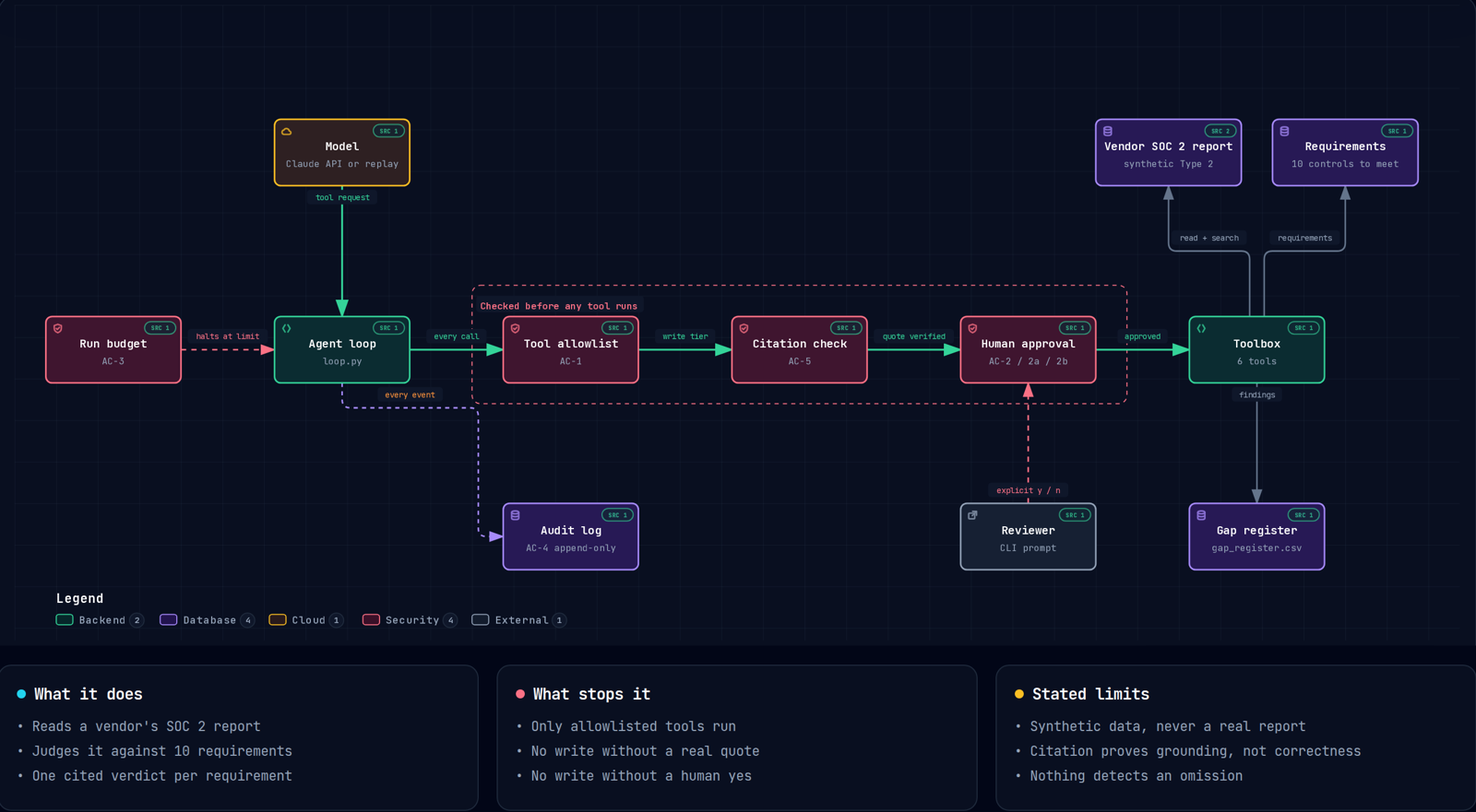
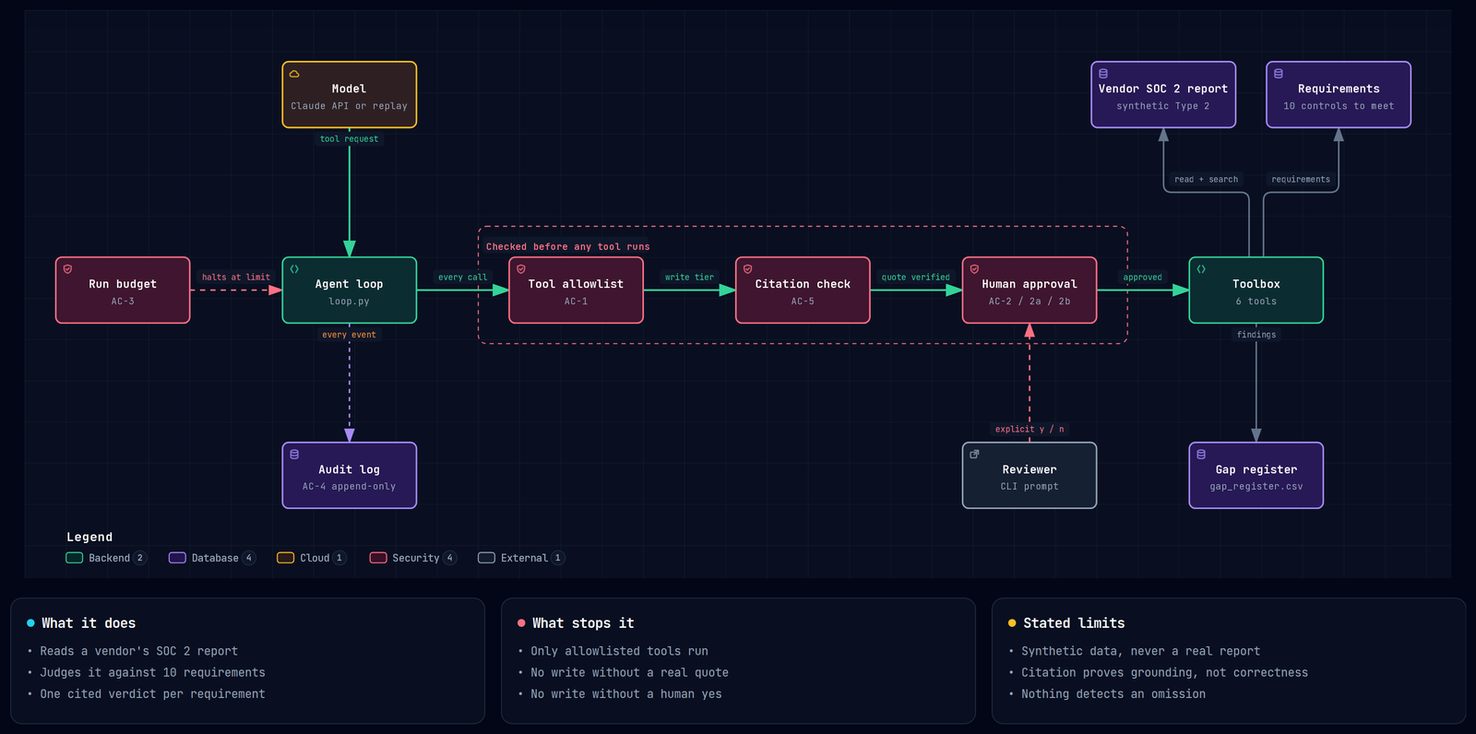
Architecture diagram: cleaner layout and spacing

diff --git a/docs/architecture.html b/docs/architecture.html
@@ -3,7 +3,6 @@
 <head>
   <meta charset="UTF-8">
   <meta name="viewport" content="width=device-width, initial-scale=1.0">
-  <meta name="generator" content="archify 2.17.0-dev.1">
   <title>SOC 2 Control-Gap Agent Diagram</title>
   <script>
     // Resolve the theme before first paint so light-preference users don't
@@ -4973,7 +4972,7 @@ OTHER DEALINGS IN THE FONT SOFTWARE.
       svg [data-node-id], svg [data-edge-from], svg [data-detail], svg [data-detail-anchor], svg [data-legend-hit], svg { transition: none !important; }
     }
   </style>
-</head>
+<style id="site-overrides">.guided-view-chapter-delta,.source-evidence-beacon{display:none!important}</style></head>
 <body>
   <!-- Toolbar: theme, live visual style, trace motion, presentation stage, and export.
        Motion appears only for trace-enabled artifacts and has no shortcut;
@@ -5130,9 +5129,9 @@ OTHER DEALINGS IN THE FONT SOFTWARE.
     <!-- Main Diagram -->
     <div class="diagram-container" data-detail-level="read"
          data-preset-badge-editorial-plate="ARCHIFY / PLATE 04">
-      <svg viewBox="0 0 1390 612" role="img" lang="en" aria-labelledby="archify-diagram-title archify-diagram-description" data-preset="classic" data-quality-profile="showcase">
+      <svg viewBox="0 0 1385 552" role="img" lang="en" aria-labelledby="archify-diagram-title archify-diagram-description" data-preset="classic" data-quality-profile="showcase">
         <title id="archify-diagram-title">SOC 2 Control-Gap Agent</title>
-        <desc id="archify-diagram-description">An architecture diagram generated by Archify.</desc>
+        <desc id="archify-diagram-description">Architecture of the SOC 2 control-gap agent: every tool request passes the allowlist, citation check and human approval before anything is written.</desc>
         <!-- Definitions -->
         <defs>
           <marker id="arrowhead" markerWidth="10" markerHeight="7" refX="9" refY="3.5" orient="auto">
@@ -5156,245 +5155,245 @@ OTHER DEALINGS IN THE FONT SOFTWARE.
         <rect width="100%" height="100%" fill="url(#grid)" />
 
         <!-- Boundaries (behind everything) -->
-        <rect data-graph-role="structural-frame" data-composition-frame-kind="security-group" data-composition-frame-id="0" data-composition-frame-label="Checked before any tool runs" x="440" y="270" width="630" height="114" rx="8" class="c-security-group" stroke-width="1"/>
+        <rect data-graph-role="structural-frame" data-composition-frame-kind="security-group" data-composition-frame-id="0" data-composition-frame-label="Checked before any tool runs" x="440" y="210" width="630" height="114" rx="8" class="c-security-group" stroke-width="1"/>
 
         <!-- Connection paths (before components for correct z-order) -->
-        <path data-edge-from="provider" data-edge-to="loop" data-edge-label="tool request" data-edge-key="0" data-edge-id="model-asks" data-composition-points="315,174;315,300" d="M 315 174 L 315 300" class="a-emphasis" stroke-width="1.8" marker-end="url(#arrowhead-emphasis)"/>
-        <path data-edge-from="loop" data-edge-to="allowlist" data-edge-label="every call" data-edge-key="1" data-edge-id="loop-to-allowlist" data-composition-points="380,332;470,332" d="M 380 332 L 470 332" class="a-emphasis" stroke-width="1.8" marker-end="url(#arrowhead-emphasis)"/>
-        <path data-edge-from="allowlist" data-edge-to="citation" data-edge-label="write tier" data-edge-key="2" data-edge-id="write-to-citation" data-composition-points="600,332;690,332" d="M 600 332 L 690 332" class="a-emphasis" stroke-width="1.8" marker-end="url(#arrowhead-emphasis)"/>
-        <path data-edge-from="citation" data-edge-to="approval" data-edge-label="quote verified" data-edge-key="3" data-edge-id="citation-to-approval" data-composition-points="820,332;910,332" d="M 820 332 L 910 332" class="a-emphasis" stroke-width="1.8" marker-end="url(#arrowhead-emphasis)"/>
-        <path data-edge-from="approval" data-edge-to="toolbox" data-edge-label="approved" data-edge-key="4" data-edge-id="approved-write" data-composition-points="1040,332;1130,332" d="M 1040 332 L 1130 332" class="a-emphasis" stroke-width="1.8" marker-end="url(#arrowhead-emphasis)"/>
-        <path data-edge-from="operator" data-edge-to="approval" data-edge-label="explicit y / n" data-edge-key="5" data-edge-id="reviewer-decides" data-composition-points="975,480;975,364" d="M 975 480 L 975 364" class="a-security" stroke-width="1.5" marker-end="url(#arrowhead-security)"/>
-        <path data-edge-from="toolbox" data-edge-to="document" data-edge-label="read + search" data-edge-key="6" data-edge-id="read-report" data-composition-points="1188,300;1188,237;1110,237;1110,174" d="M 1188 300 L 1188 245 Q 1188 237 1180 237 L 1118 237 Q 1110 237 1110 229 L 1110 174" class="a-default" stroke-width="1.5" marker-end="url(#arrowhead)"/>
-        <path data-edge-from="toolbox" data-edge-to="requirements" data-edge-label="requirements" data-edge-key="7" data-edge-id="read-requirements" data-composition-points="1202,300;1202,237;1280,237;1280,174" d="M 1202 300 L 1202 245 Q 1202 237 1210 237 L 1272 237 Q 1280 237 1280 229 L 1280 174" class="a-default" stroke-width="1.5" marker-end="url(#arrowhead)"/>
-        <path data-edge-from="toolbox" data-edge-to="register" data-edge-label="findings" data-edge-key="8" data-edge-id="write-register" data-composition-points="1195,364;1195,480" d="M 1195 364 L 1195 480" class="a-default" stroke-width="1.5" marker-end="url(#arrowhead)"/>
-        <path data-edge-from="budget" data-edge-to="loop" data-edge-label="halts at limit" data-edge-key="9" data-edge-id="budget-halts" data-composition-points="160,332;250,332" d="M 160 332 L 250 332" class="a-security" stroke-width="1.5" marker-end="url(#arrowhead-security)"/>
-        <path data-edge-from="loop" data-edge-to="audit" data-edge-label="every event" data-edge-key="10" data-edge-id="log-everything" data-composition-points="315,364;315,388;446,388;446,512;470,512" d="M 315 364 L 315 380 Q 315 388 323 388 L 438 388 Q 446 388 446 396 L 446 504 Q 446 512 454 512 L 470 512" class="a-dashed" stroke-width="1.5" marker-end="url(#arrowhead-dashed)"/>
+        <path data-edge-from="provider" data-edge-to="loop" data-edge-label="tool request" data-edge-key="0" data-edge-id="model-asks" data-composition-points="315,114;315,240" d="M 315 114 L 315 240" class="a-emphasis" stroke-width="1.8" marker-end="url(#arrowhead-emphasis)"/>
+        <path data-edge-from="loop" data-edge-to="allowlist" data-edge-label="every call" data-edge-key="1" data-edge-id="loop-to-allowlist" data-composition-points="380,272;470,272" d="M 380 272 L 470 272" class="a-emphasis" stroke-width="1.8" marker-end="url(#arrowhead-emphasis)"/>
+        <path data-edge-from="allowlist" data-edge-to="citation" data-edge-label="write tier" data-edge-key="2" data-edge-id="write-to-citation" data-composition-points="600,272;690,272" d="M 600 272 L 690 272" class="a-emphasis" stroke-width="1.8" marker-end="url(#arrowhead-emphasis)"/>
+        <path data-edge-from="citation" data-edge-to="approval" data-edge-label="quote verified" data-edge-key="3" data-edge-id="citation-to-approval" data-composition-points="820,272;910,272" d="M 820 272 L 910 272" class="a-emphasis" stroke-width="1.8" marker-end="url(#arrowhead-emphasis)"/>
+        <path data-edge-from="approval" data-edge-to="toolbox" data-edge-label="approved" data-edge-key="4" data-edge-id="approved-write" data-composition-points="1040,272;1130,272" d="M 1040 272 L 1130 272" class="a-emphasis" stroke-width="1.8" marker-end="url(#arrowhead-emphasis)"/>
+        <path data-edge-from="operator" data-edge-to="approval" data-edge-label="explicit y / n" data-edge-key="5" data-edge-id="reviewer-decides" data-composition-points="975,420;975,304" d="M 975 420 L 975 304" class="a-security" stroke-width="1.5" marker-end="url(#arrowhead-security)"/>
+        <path data-edge-from="toolbox" data-edge-to="document" data-edge-label="read + search" data-edge-key="6" data-edge-id="read-report" data-composition-points="1188,240;1188,177;1105,177;1105,114" d="M 1188 240 L 1188 185 Q 1188 177 1180 177 L 1113 177 Q 1105 177 1105 169 L 1105 114" class="a-default" stroke-width="1.5" marker-end="url(#arrowhead)"/>
+        <path data-edge-from="toolbox" data-edge-to="requirements" data-edge-label="requirements" data-edge-key="7" data-edge-id="read-requirements" data-composition-points="1202,240;1202,177;1275,177;1275,114" d="M 1202 240 L 1202 185 Q 1202 177 1210 177 L 1267 177 Q 1275 177 1275 169 L 1275 114" class="a-default" stroke-width="1.5" marker-end="url(#arrowhead)"/>
+        <path data-edge-from="toolbox" data-edge-to="register" data-edge-label="findings" data-edge-key="8" data-edge-id="write-register" data-composition-points="1195,304;1195,420" d="M 1195 304 L 1195 420" class="a-default" stroke-width="1.5" marker-end="url(#arrowhead)"/>
+        <path data-edge-from="budget" data-edge-to="loop" data-edge-label="halts at limit" data-edge-key="9" data-edge-id="budget-halts" data-composition-points="160,272;250,272" d="M 160 272 L 250 272" class="a-security" stroke-width="1.5" marker-end="url(#arrowhead-security)"/>
+        <path data-edge-from="loop" data-edge-to="audit" data-edge-label="every event" data-edge-key="10" data-edge-id="log-everything" data-composition-points="315,304;315,420" d="M 315 304 L 315 420" class="a-dashed" stroke-width="1.5" marker-end="url(#arrowhead-dashed)"/>
 
         <!-- Components -->
         <g id="node-provider" data-node-id="provider" data-node-label="Model" tabindex="0" role="button" aria-label="Focus Model, Claude API or replay, Architecture component" aria-pressed="false" data-node-kind="cloud" data-node-sublabel="Claude API or replay" data-node-context="Architecture component">
           <title>Model · Claude API or replay · Architecture component</title>
-          <rect x="250" y="110" width="130" height="64" rx="6" class="c-mask"/>
-          <rect x="250" y="110" width="130" height="64" rx="6" class="c-cloud" stroke-width="1.5"/>
-          <g aria-hidden="true" data-semantic-sigil="cloud" class="semantic-sigil s-cloud" transform="translate(256 116) scale(0.6875)">
+          <rect x="250" y="50" width="130" height="64" rx="6" class="c-mask"/>
+          <rect x="250" y="50" width="130" height="64" rx="6" class="c-cloud" stroke-width="1.5"/>
+          <g aria-hidden="true" data-semantic-sigil="cloud" class="semantic-sigil s-cloud" transform="translate(256 56) scale(0.6875)">
             <path d="M4.3 12.5h7.3a2.4 2.4 0 0 0 .2-4.8 4 4 0 0 0-7.5-1.3A3.1 3.1 0 0 0 4.3 12.5Z"/>
           </g>
-          <text data-node-label="" data-detail-anchor="" x="315" y="140" class="t-primary" font-size="11" font-weight="600" text-anchor="middle">Model</text>
-        <text data-detail="context" x="315" y="156" class="t-muted" font-size="9" text-anchor="middle">Claude API or replay</text>
+          <text data-node-label="" data-detail-anchor="" x="315" y="80" class="t-primary" font-size="11" font-weight="600" text-anchor="middle">Model</text>
+        <text data-detail="context" x="315" y="96" class="t-muted" font-size="9" text-anchor="middle">Claude API or replay</text>
         </g>
 
         <g id="node-loop" data-node-id="loop" data-node-label="Agent loop" tabindex="0" role="button" aria-label="Focus Agent loop, loop.py, Architecture component" aria-pressed="false" data-node-kind="backend" data-node-sublabel="loop.py" data-node-tag="decides what runs" data-node-context="Architecture component">
           <title>Agent loop · loop.py · Architecture component · decides what runs</title>
-          <rect x="250" y="300" width="130" height="64" rx="6" class="c-mask"/>
-          <rect x="250" y="300" width="130" height="64" rx="6" class="c-backend" stroke-width="1.5"/>
-          <g aria-hidden="true" data-semantic-sigil="backend" class="semantic-sigil s-backend" transform="translate(256 306) scale(0.6875)">
+          <rect x="250" y="240" width="130" height="64" rx="6" class="c-mask"/>
+          <rect x="250" y="240" width="130" height="64" rx="6" class="c-backend" stroke-width="1.5"/>
+          <g aria-hidden="true" data-semantic-sigil="backend" class="semantic-sigil s-backend" transform="translate(256 246) scale(0.6875)">
             <path d="M6 3 3 8l3 5M10 3l3 5-3 5"/>
           </g>
-          <text data-node-label="" data-detail-anchor="" x="315" y="330" class="t-primary" font-size="11" font-weight="600" text-anchor="middle">Agent loop</text>
-        <text data-detail="context" x="315" y="346" class="t-muted" font-size="9" text-anchor="middle">loop.py</text>
-        <text data-detail="fine" x="315" y="356" class="t-backend" font-size="7" text-anchor="middle">decides what runs</text>
+          <text data-node-label="" data-detail-anchor="" x="315" y="270" class="t-primary" font-size="11" font-weight="600" text-anchor="middle">Agent loop</text>
+        <text data-detail="context" x="315" y="286" class="t-muted" font-size="9" text-anchor="middle">loop.py</text>
+        <text data-detail="fine" x="315" y="296" class="t-backend" font-size="7" text-anchor="middle">decides what runs</text>
         </g>
 
         <g id="node-budget" data-node-id="budget" data-node-label="Run budget" tabindex="0" role="button" aria-label="Focus Run budget, AC-3, Architecture component" aria-pressed="false" data-node-kind="security" data-node-sublabel="AC-3" data-node-tag="iterations, tokens, time" data-node-context="Architecture component">
           <title>Run budget · AC-3 · Architecture component · iterations, tokens, time</title>
-          <rect x="30" y="300" width="130" height="64" rx="6" class="c-mask"/>
-          <rect x="30" y="300" width="130" height="64" rx="6" class="c-security" stroke-width="1.5"/>
-          <g aria-hidden="true" data-semantic-sigil="security" class="semantic-sigil s-security" transform="translate(36 306) scale(0.6875)">
+          <rect x="30" y="240" width="130" height="64" rx="6" class="c-mask"/>
+          <rect x="30" y="240" width="130" height="64" rx="6" class="c-security" stroke-width="1.5"/>
+          <g aria-hidden="true" data-semantic-sigil="security" class="semantic-sigil s-security" transform="translate(36 246) scale(0.6875)">
             <path d="M8 2.2 13 4v3.5c0 3.1-1.8 5.4-5 6.5-3.2-1.1-5-3.4-5-6.5V4Z"/>
             <path d="m5.8 8 1.5 1.5 3-3"/>
           </g>
-          <text data-node-label="" data-detail-anchor="" x="95" y="330" class="t-primary" font-size="11" font-weight="600" text-anchor="middle">Run budget</text>
-        <text data-detail="context" x="95" y="346" class="t-muted" font-size="9" text-anchor="middle">AC-3</text>
-        <text data-detail="fine" x="95" y="356" class="t-security" font-size="7" text-anchor="middle">iterations, tokens, time</text>
+          <text data-node-label="" data-detail-anchor="" x="95" y="270" class="t-primary" font-size="11" font-weight="600" text-anchor="middle">Run budget</text>
+        <text data-detail="context" x="95" y="286" class="t-muted" font-size="9" text-anchor="middle">AC-3</text>
+        <text data-detail="fine" x="95" y="296" class="t-security" font-size="7" text-anchor="middle">iterations, tokens, time</text>
         </g>
 
         <g id="node-allowlist" data-node-id="allowlist" data-node-label="Tool allowlist" tabindex="0" role="button" aria-label="Focus Tool allowlist, AC-1, Checked before any tool runs" aria-pressed="false" data-node-kind="security" data-node-sublabel="AC-1" data-node-tag="read or write tier" data-node-context="Checked before any tool runs">
           <title>Tool allowlist · AC-1 · Checked before any tool runs · read or write tier</title>
-          <rect x="470" y="300" width="130" height="64" rx="6" class="c-mask"/>
-          <rect x="470" y="300" width="130" height="64" rx="6" class="c-security" stroke-width="1.5"/>
-          <g aria-hidden="true" data-semantic-sigil="security" class="semantic-sigil s-security" transform="translate(476 306) scale(0.6875)">
+          <rect x="470" y="240" width="130" height="64" rx="6" class="c-mask"/>
+          <rect x="470" y="240" width="130" height="64" rx="6" class="c-security" stroke-width="1.5"/>
+          <g aria-hidden="true" data-semantic-sigil="security" class="semantic-sigil s-security" transform="translate(476 246) scale(0.6875)">
             <path d="M8 2.2 13 4v3.5c0 3.1-1.8 5.4-5 6.5-3.2-1.1-5-3.4-5-6.5V4Z"/>
             <path d="m5.8 8 1.5 1.5 3-3"/>
           </g>
-          <text data-node-label="" data-detail-anchor="" x="535" y="330" class="t-primary" font-size="11" font-weight="600" text-anchor="middle">Tool allowlist</text>
-        <text data-detail="context" x="535" y="346" class="t-muted" font-size="9" text-anchor="middle">AC-1</text>
-        <text data-detail="fine" x="535" y="356" class="t-security" font-size="7" text-anchor="middle">read or write tier</text>
+          <text data-node-label="" data-detail-anchor="" x="535" y="270" class="t-primary" font-size="11" font-weight="600" text-anchor="middle">Tool allowlist</text>
+        <text data-detail="context" x="535" y="286" class="t-muted" font-size="9" text-anchor="middle">AC-1</text>
+        <text data-detail="fine" x="535" y="296" class="t-security" font-size="7" text-anchor="middle">read or write tier</text>
         </g>
 
         <g id="node-citation" data-node-id="citation" data-node-label="Citation check" tabindex="0" role="button" aria-label="Focus Citation check, AC-5, Checked before any tool runs" aria-pressed="false" data-node-kind="security" data-node-sublabel="AC-5" data-node-tag="quote must exist" data-node-context="Checked before any tool runs">
           <title>Citation check · AC-5 · Checked before any tool runs · quote must exist</title>
-          <rect x="690" y="300" width="130" height="64" rx="6" class="c-mask"/>
-          <rect x="690" y="300" width="130" height="64" rx="6" class="c-security" stroke-width="1.5"/>
-          <g aria-hidden="true" data-semantic-sigil="security" class="semantic-sigil s-security" transform="translate(696 306) scale(0.6875)">
+          <rect x="690" y="240" width="130" height="64" rx="6" class="c-mask"/>
+          <rect x="690" y="240" width="130" height="64" rx="6" class="c-security" stroke-width="1.5"/>
+          <g aria-hidden="true" data-semantic-sigil="security" class="semantic-sigil s-security" transform="translate(696 246) scale(0.6875)">
             <path d="M8 2.2 13 4v3.5c0 3.1-1.8 5.4-5 6.5-3.2-1.1-5-3.4-5-6.5V4Z"/>
             <path d="m5.8 8 1.5 1.5 3-3"/>
           </g>
-          <text data-node-label="" data-detail-anchor="" x="755" y="330" class="t-primary" font-size="11" font-weight="600" text-anchor="middle">Citation check</text>
-        <text data-detail="context" x="755" y="346" class="t-muted" font-size="9" text-anchor="middle">AC-5</text>
-        <text data-detail="fine" x="755" y="356" class="t-security" font-size="7" text-anchor="middle">quote must exist</text>
+          <text data-node-label="" data-detail-anchor="" x="755" y="270" class="t-primary" font-size="11" font-weight="600" text-anchor="middle">Citation check</text>
+        <text data-detail="context" x="755" y="286" class="t-muted" font-size="9" text-anchor="middle">AC-5</text>
+        <text data-detail="fine" x="755" y="296" class="t-security" font-size="7" text-anchor="middle">quote must exist</text>
         </g>
 
         <g id="node-approval" data-node-id="approval" data-node-label="Human approval" tabindex="0" role="button" aria-label="Focus Human approval, AC-2 / 2a / 2b, Checked before any tool runs" aria-pressed="false" data-node-kind="security" data-node-sublabel="AC-2 / 2a / 2b" data-node-tag="per write" data-node-context="Checked before any tool runs">
           <title>Human approval · AC-2 / 2a / 2b · Checked before any tool runs · per write</title>
-          <rect x="910" y="300" width="130" height="64" rx="6" class="c-mask"/>
-          <rect x="910" y="300" width="130" height="64" rx="6" class="c-security" stroke-width="1.5"/>
-          <g aria-hidden="true" data-semantic-sigil="security" class="semantic-sigil s-security" transform="translate(916 306) scale(0.6875)">
+          <rect x="910" y="240" width="130" height="64" rx="6" class="c-mask"/>
+          <rect x="910" y="240" width="130" height="64" rx="6" class="c-security" stroke-width="1.5"/>
+          <g aria-hidden="true" data-semantic-sigil="security" class="semantic-sigil s-security" transform="translate(916 246) scale(0.6875)">
             <path d="M8 2.2 13 4v3.5c0 3.1-1.8 5.4-5 6.5-3.2-1.1-5-3.4-5-6.5V4Z"/>
             <path d="m5.8 8 1.5 1.5 3-3"/>
           </g>
-          <text data-node-label="" data-detail-anchor="" x="975" y="330" class="t-primary" font-size="11" font-weight="600" text-anchor="middle">Human approval</text>
-        <text data-detail="context" x="975" y="346" class="t-muted" font-size="9" text-anchor="middle">AC-2 / 2a / 2b</text>
-        <text data-detail="fine" x="975" y="356" class="t-security" font-size="7" text-anchor="middle">per write</text>
+          <text data-node-label="" data-detail-anchor="" x="975" y="270" class="t-primary" font-size="11" font-weight="600" text-anchor="middle">Human approval</text>
+        <text data-detail="context" x="975" y="286" class="t-muted" font-size="9" text-anchor="middle">AC-2 / 2a / 2b</text>
+        <text data-detail="fine" x="975" y="296" class="t-security" font-size="7" text-anchor="middle">per write</text>
         </g>
 
         <g id="node-operator" data-node-id="operator" data-node-label="Reviewer" tabindex="0" role="button" aria-label="Focus Reviewer, CLI prompt, Architecture component" aria-pressed="false" data-node-kind="external" data-node-sublabel="CLI prompt" data-node-context="Architecture component">
           <title>Reviewer · CLI prompt · Architecture component</title>
-          <rect x="910" y="480" width="130" height="64" rx="6" class="c-mask"/>
-          <rect x="910" y="480" width="130" height="64" rx="6" class="c-external" stroke-width="1.5"/>
-          <g aria-hidden="true" data-semantic-sigil="external" class="semantic-sigil s-external" transform="translate(916 486) scale(0.6875)">
+          <rect x="910" y="420" width="130" height="64" rx="6" class="c-mask"/>
+          <rect x="910" y="420" width="130" height="64" rx="6" class="c-external" stroke-width="1.5"/>
+          <g aria-hidden="true" data-semantic-sigil="external" class="semantic-sigil s-external" transform="translate(916 426) scale(0.6875)">
             <rect x="2.5" y="5" width="8.5" height="8" rx="1.5"/>
             <path d="M8 2.5h5.5V8M13.5 2.5 7.5 8.5"/>
           </g>
-          <text data-node-label="" data-detail-anchor="" x="975" y="510" class="t-primary" font-size="11" font-weight="600" text-anchor="middle">Reviewer</text>
-        <text data-detail="context" x="975" y="526" class="t-muted" font-size="9" text-anchor="middle">CLI prompt</text>
+          <text data-node-label="" data-detail-anchor="" x="975" y="450" class="t-primary" font-size="11" font-weight="600" text-anchor="middle">Reviewer</text>
+        <text data-detail="context" x="975" y="466" class="t-muted" font-size="9" text-anchor="middle">CLI prompt</text>
         </g>
 
         <g id="node-toolbox" data-node-id="toolbox" data-node-label="Toolbox" tabindex="0" role="button" aria-label="Focus Toolbox, 6 tools, Architecture component" aria-pressed="false" data-node-kind="backend" data-node-sublabel="6 tools" data-node-tag="AC-7 / AC-8" data-node-context="Architecture component">
           <title>Toolbox · 6 tools · Architecture component · AC-7 / AC-8</title>
-          <rect x="1130" y="300" width="130" height="64" rx="6" class="c-mask"/>
-          <rect x="1130" y="300" width="130" height="64" rx="6" class="c-backend" stroke-width="1.5"/>
-          <g aria-hidden="true" data-semantic-sigil="backend" class="semantic-sigil s-backend" transform="translate(1136 306) scale(0.6875)">
+          <rect x="1130" y="240" width="130" height="64" rx="6" class="c-mask"/>
+          <rect x="1130" y="240" width="130" height="64" rx="6" class="c-backend" stroke-width="1.5"/>
+          <g aria-hidden="true" data-semantic-sigil="backend" class="semantic-sigil s-backend" transform="translate(1136 246) scale(0.6875)">
             <path d="M6 3 3 8l3 5M10 3l3 5-3 5"/>
           </g>
-          <text data-node-label="" data-detail-anchor="" x="1195" y="330" class="t-primary" font-size="11" font-weight="600" text-anchor="middle">Toolbox</text>
-        <text data-detail="context" x="1195" y="346" class="t-muted" font-size="9" text-anchor="middle">6 tools</text>
-        <text data-detail="fine" x="1195" y="356" class="t-backend" font-size="7" text-anchor="middle">AC-7 / AC-8</text>
+          <text data-node-label="" data-detail-anchor="" x="1195" y="270" class="t-primary" font-size="11" font-weight="600" text-anchor="middle">Toolbox</text>
+        <text data-detail="context" x="1195" y="286" class="t-muted" font-size="9" text-anchor="middle">6 tools</text>
+        <text data-detail="fine" x="1195" y="296" class="t-backend" font-size="7" text-anchor="middle">AC-7 / AC-8</text>
         </g>
 
         <g id="node-document" data-node-id="document" data-node-label="Vendor SOC 2 report" tabindex="0" role="button" aria-label="Focus Vendor SOC 2 report, synthetic Type 2, Architecture component" aria-pressed="false" data-node-kind="database" data-node-sublabel="synthetic Type 2" data-node-context="Architecture component">
           <title>Vendor SOC 2 report · synthetic Type 2 · Architecture component</title>
-          <rect x="1040" y="110" width="140" height="64" rx="6" class="c-mask"/>
-          <rect x="1040" y="110" width="140" height="64" rx="6" class="c-database" stroke-width="1.5"/>
-          <g aria-hidden="true" data-semantic-sigil="database" class="semantic-sigil s-database" transform="translate(1046 116) scale(0.6875)">
+          <rect x="1035" y="50" width="140" height="64" rx="6" class="c-mask"/>
+          <rect x="1035" y="50" width="140" height="64" rx="6" class="c-database" stroke-width="1.5"/>
+          <g aria-hidden="true" data-semantic-sigil="database" class="semantic-sigil s-database" transform="translate(1041 56) scale(0.6875)">
             <ellipse cx="8" cy="4" rx="5" ry="2"/>
             <path d="M3 4v8c0 1.1 2.2 2 5 2s5-.9 5-2V4M3 8c0 1.1 2.2 2 5 2s5-.9 5-2"/>
           </g>
-          <text data-node-label="" data-detail-anchor="" x="1110" y="140" class="t-primary" font-size="11" font-weight="600" text-anchor="middle">Vendor SOC 2 report</text>
-        <text data-detail="context" x="1110" y="156" class="t-muted" font-size="9" text-anchor="middle">synthetic Type 2</text>
+          <text data-node-label="" data-detail-anchor="" x="1105" y="80" class="t-primary" font-size="11" font-weight="600" text-anchor="middle">Vendor SOC 2 report</text>
+        <text data-detail="context" x="1105" y="96" class="t-muted" font-size="9" text-anchor="middle">synthetic Type 2</text>
         </g>
 
         <g id="node-requirements" data-node-id="requirements" data-node-label="Requirements" tabindex="0" role="button" aria-label="Focus Requirements, 10 controls to meet, Architecture component" aria-pressed="false" data-node-kind="database" data-node-sublabel="10 controls to meet" data-node-context="Architecture component">
           <title>Requirements · 10 controls to meet · Architecture component</title>
-          <rect x="1210" y="110" width="140" height="64" rx="6" class="c-mask"/>
-          <rect x="1210" y="110" width="140" height="64" rx="6" class="c-database" stroke-width="1.5"/>
-          <g aria-hidden="true" data-semantic-sigil="database" class="semantic-sigil s-database" transform="translate(1216 116) scale(0.6875)">
+          <rect x="1205" y="50" width="140" height="64" rx="6" class="c-mask"/>
+          <rect x="1205" y="50" width="140" height="64" rx="6" class="c-database" stroke-width="1.5"/>
+          <g aria-hidden="true" data-semantic-sigil="database" class="semantic-sigil s-database" transform="translate(1211 56) scale(0.6875)">
             <ellipse cx="8" cy="4" rx="5" ry="2"/>
             <path d="M3 4v8c0 1.1 2.2 2 5 2s5-.9 5-2V4M3 8c0 1.1 2.2 2 5 2s5-.9 5-2"/>
           </g>
-          <text data-node-label="" data-detail-anchor="" x="1280" y="140" class="t-primary" font-size="11" font-weight="600" text-anchor="middle">Requirements</text>
-        <text data-detail="context" x="1280" y="156" class="t-muted" font-size="9" text-anchor="middle">10 controls to meet</text>
+          <text data-node-label="" data-detail-anchor="" x="1275" y="80" class="t-primary" font-size="11" font-weight="600" text-anchor="middle">Requirements</text>
+        <text data-detail="context" x="1275" y="96" class="t-muted" font-size="9" text-anchor="middle">10 controls to meet</text>
         </g>
 
         <g id="node-register" data-node-id="register" data-node-label="Gap register" tabindex="0" role="button" aria-label="Focus Gap register, gap_register.csv, Architecture component" aria-pressed="false" data-node-kind="database" data-node-sublabel="gap_register.csv" data-node-tag="rollback: AC-6" data-node-context="Architecture component">
           <title>Gap register · gap_register.csv · Architecture component · rollback: AC-6</title>
-          <rect x="1130" y="480" width="130" height="64" rx="6" class="c-mask"/>
-          <rect x="1130" y="480" width="130" height="64" rx="6" class="c-database" stroke-width="1.5"/>
-          <g aria-hidden="true" data-semantic-sigil="database" class="semantic-sigil s-database" transform="translate(1136 486) scale(0.6875)">
+          <rect x="1130" y="420" width="130" height="64" rx="6" class="c-mask"/>
+          <rect x="1130" y="420" width="130" height="64" rx="6" class="c-database" stroke-width="1.5"/>
+          <g aria-hidden="true" data-semantic-sigil="database" class="semantic-sigil s-database" transform="translate(1136 426) scale(0.6875)">
             <ellipse cx="8" cy="4" rx="5" ry="2"/>
             <path d="M3 4v8c0 1.1 2.2 2 5 2s5-.9 5-2V4M3 8c0 1.1 2.2 2 5 2s5-.9 5-2"/>
           </g>
-          <text data-node-label="" data-detail-anchor="" x="1195" y="510" class="t-primary" font-size="11" font-weight="600" text-anchor="middle">Gap register</text>
-        <text data-detail="context" x="1195" y="526" class="t-muted" font-size="9" text-anchor="middle">gap_register.csv</text>
-        <text data-detail="fine" x="1195" y="536" class="t-database" font-size="7" text-anchor="middle">rollback: AC-6</text>
+          <text data-node-label="" data-detail-anchor="" x="1195" y="450" class="t-primary" font-size="11" font-weight="600" text-anchor="middle">Gap register</text>
+        <text data-detail="context" x="1195" y="466" class="t-muted" font-size="9" text-anchor="middle">gap_register.csv</text>
+        <text data-detail="fine" x="1195" y="476" class="t-database" font-size="7" text-anchor="middle">rollback: AC-6</text>
         </g>
 
         <g id="node-audit" data-node-id="audit" data-node-label="Audit log" tabindex="0" role="button" aria-label="Focus Audit log, AC-4 append-only, Architecture component" aria-pressed="false" data-node-kind="database" data-node-sublabel="AC-4 append-only" data-node-tag="fsynced per event" data-node-context="Architecture component">
           <title>Audit log · AC-4 append-only · Architecture component · fsynced per event</title>
-          <rect x="470" y="480" width="130" height="64" rx="6" class="c-mask"/>
-          <rect x="470" y="480" width="130" height="64" rx="6" class="c-database" stroke-width="1.5"/>
-          <g aria-hidden="true" data-semantic-sigil="database" class="semantic-sigil s-database" transform="translate(476 486) scale(0.6875)">
+          <rect x="250" y="420" width="130" height="64" rx="6" class="c-mask"/>
+          <rect x="250" y="420" width="130" height="64" rx="6" class="c-database" stroke-width="1.5"/>
+          <g aria-hidden="true" data-semantic-sigil="database" class="semantic-sigil s-database" transform="translate(256 426) scale(0.6875)">
             <ellipse cx="8" cy="4" rx="5" ry="2"/>
             <path d="M3 4v8c0 1.1 2.2 2 5 2s5-.9 5-2V4M3 8c0 1.1 2.2 2 5 2s5-.9 5-2"/>
           </g>
-          <text data-node-label="" data-detail-anchor="" x="535" y="510" class="t-primary" font-size="11" font-weight="600" text-anchor="middle">Audit log</text>
-        <text data-detail="context" x="535" y="526" class="t-muted" font-size="9" text-anchor="middle">AC-4 append-only</text>
-        <text data-detail="fine" x="535" y="536" class="t-database" font-size="7" text-anchor="middle">fsynced per event</text>
+          <text data-node-label="" data-detail-anchor="" x="315" y="450" class="t-primary" font-size="11" font-weight="600" text-anchor="middle">Audit log</text>
+        <text data-detail="context" x="315" y="466" class="t-muted" font-size="9" text-anchor="middle">AC-4 append-only</text>
+        <text data-detail="fine" x="315" y="476" class="t-database" font-size="7" text-anchor="middle">fsynced per event</text>
         </g>
 
         <!-- Connection labels -->
         <g data-detail="context" data-edge-from="provider" data-edge-to="loop" data-edge-label="tool request" data-edge-key="0" data-edge-id="model-asks">
-          <rect x="281.2" y="178" width="67.6" height="14" rx="3" class="c-mask"/>
-          <text x="315" y="188" class="t-backend" font-size="8" text-anchor="middle">tool request</text>
+          <rect x="281.2" y="118" width="67.6" height="14" rx="3" class="c-mask"/>
+          <text x="315" y="128" class="t-backend" font-size="8" text-anchor="middle">tool request</text>
         </g>
         <g data-detail="context" data-edge-from="loop" data-edge-to="allowlist" data-edge-label="every call" data-edge-key="1" data-edge-id="loop-to-allowlist">
-          <rect x="396" y="312" width="58" height="14" rx="3" class="c-mask"/>
-          <text x="425" y="322" class="t-backend" font-size="8" text-anchor="middle">every call</text>
+          <rect x="396" y="252" width="58" height="14" rx="3" class="c-mask"/>
+          <text x="425" y="262" class="t-backend" font-size="8" text-anchor="middle">every call</text>
         </g>
         <g data-detail="context" data-edge-from="allowlist" data-edge-to="citation" data-edge-label="write tier" data-edge-key="2" data-edge-id="write-to-citation">
-          <rect x="616" y="312" width="58" height="14" rx="3" class="c-mask"/>
-          <text x="645" y="322" class="t-backend" font-size="8" text-anchor="middle">write tier</text>
+          <rect x="616" y="252" width="58" height="14" rx="3" class="c-mask"/>
+          <text x="645" y="262" class="t-backend" font-size="8" text-anchor="middle">write tier</text>
         </g>
         <g data-detail="context" data-edge-from="citation" data-edge-to="approval" data-edge-label="quote verified" data-edge-key="3" data-edge-id="citation-to-approval">
-          <rect x="826.4" y="312" width="77.2" height="14" rx="3" class="c-mask"/>
-          <text x="865" y="322" class="t-backend" font-size="8" text-anchor="middle">quote verified</text>
+          <rect x="826.4" y="252" width="77.2" height="14" rx="3" class="c-mask"/>
+          <text x="865" y="262" class="t-backend" font-size="8" text-anchor="middle">quote verified</text>
         </g>
         <g data-detail="context" data-edge-from="approval" data-edge-to="toolbox" data-edge-label="approved" data-edge-key="4" data-edge-id="approved-write">
-          <rect x="1060.8" y="312" width="48.4" height="14" rx="3" class="c-mask"/>
-          <text x="1085" y="322" class="t-backend" font-size="8" text-anchor="middle">approved</text>
+          <rect x="1060.8" y="252" width="48.4" height="14" rx="3" class="c-mask"/>
+          <text x="1085" y="262" class="t-backend" font-size="8" text-anchor="middle">approved</text>
         </g>
         <g data-detail="context" data-edge-from="operator" data-edge-to="approval" data-edge-label="explicit y / n" data-edge-key="5" data-edge-id="reviewer-decides">
-          <rect x="936.4" y="460" width="77.2" height="14" rx="3" class="c-mask"/>
-          <text x="975" y="470" class="t-security" font-size="8" text-anchor="middle">explicit y / n</text>
+          <rect x="936.4" y="400" width="77.2" height="14" rx="3" class="c-mask"/>
+          <text x="975" y="410" class="t-security" font-size="8" text-anchor="middle">explicit y / n</text>
         </g>
         <g data-detail="context" data-edge-from="toolbox" data-edge-to="document" data-edge-label="read + search" data-edge-key="6" data-edge-id="read-report">
-          <rect x="1112.8" y="217" width="72.4" height="14" rx="3" class="c-mask"/>
-          <text x="1149" y="227" class="t-muted" font-size="8" text-anchor="middle">read + search</text>
+          <rect x="1110.3" y="157" width="72.4" height="14" rx="3" class="c-mask"/>
+          <text x="1146.5" y="167" class="t-muted" font-size="8" text-anchor="middle">read + search</text>
         </g>
         <g data-detail="context" data-edge-from="toolbox" data-edge-to="requirements" data-edge-label="requirements" data-edge-key="7" data-edge-id="read-requirements">
-          <rect x="1207.2" y="217" width="67.6" height="14" rx="3" class="c-mask"/>
-          <text x="1241" y="227" class="t-muted" font-size="8" text-anchor="middle">requirements</text>
+          <rect x="1204.7" y="157" width="67.6" height="14" rx="3" class="c-mask"/>
+          <text x="1238.5" y="167" class="t-muted" font-size="8" text-anchor="middle">requirements</text>
         </g>
         <g data-detail="context" data-edge-from="toolbox" data-edge-to="register" data-edge-label="findings" data-edge-key="8" data-edge-id="write-register">
-          <rect x="1170.8" y="368" width="48.4" height="14" rx="3" class="c-mask"/>
-          <text x="1195" y="378" class="t-muted" font-size="8" text-anchor="middle">findings</text>
+          <rect x="1170.8" y="308" width="48.4" height="14" rx="3" class="c-mask"/>
+          <text x="1195" y="318" class="t-muted" font-size="8" text-anchor="middle">findings</text>
         </g>
         <g data-detail="context" data-edge-from="budget" data-edge-to="loop" data-edge-label="halts at limit" data-edge-key="9" data-edge-id="budget-halts">
-          <rect x="166.4" y="312" width="77.2" height="14" rx="3" class="c-mask"/>
-          <text x="205" y="322" class="t-security" font-size="8" text-anchor="middle">halts at limit</text>
+          <rect x="166.4" y="252" width="77.2" height="14" rx="3" class="c-mask"/>
+          <text x="205" y="262" class="t-security" font-size="8" text-anchor="middle">halts at limit</text>
         </g>
         <g data-detail="context" data-edge-from="loop" data-edge-to="audit" data-edge-label="every event" data-edge-key="10" data-edge-id="log-everything">
-          <rect x="349.1" y="368" width="62.8" height="14" rx="3" class="c-mask"/>
-          <text x="380.5" y="378" class="t-messagebus" font-size="8" text-anchor="middle">every event</text>
+          <rect x="283.6" y="308" width="62.8" height="14" rx="3" class="c-mask"/>
+          <text x="315" y="318" class="t-messagebus" font-size="8" text-anchor="middle">every event</text>
         </g>
 
         <!-- Boundary labels (foreground masks keep routes out of titles) -->
         <g data-graph-role="structural-frame-label" data-composition-frame-id="0" data-composition-frame-kind="security-group" data-composition-frame-label="Checked before any tool runs">
-          <rect data-graph-role="structural-frame-label-mask" x="444" y="280" width="161.2" height="16" rx="3" class="c-mask"/>
-          <text data-boundary-label="" x="448" y="293" class="t-security" font-size="9" font-weight="600">Checked before any tool runs</text>
+          <rect data-graph-role="structural-frame-label-mask" x="444" y="220" width="161.2" height="16" rx="3" class="c-mask"/>
+          <text data-boundary-label="" x="448" y="233" class="t-security" font-size="9" font-weight="600">Checked before any tool runs</text>
         </g>
 
         <!-- Legend -->
         <g data-legend="" data-legend-bridge="">
-          <text x="40" y="576" class="t-primary" font-size="12" font-weight="650">Legend</text>
-          <g data-legend-semantic-kind="backend" data-legend-kind="backend" data-legend-label="Backend" data-legend-x="40" data-legend-baseline="596" data-legend-width="78">
-            <rect x="40" y="587" width="16" height="10" rx="2.5" class="c-backend" stroke-width="1"/>
-            <text x="62" y="596" class="t-muted" font-size="10" font-weight="500">Backend</text>
+          <text x="40" y="516" class="t-primary" font-size="12" font-weight="650">Legend</text>
+          <g data-legend-semantic-kind="backend" data-legend-kind="backend" data-legend-label="Backend" data-legend-x="40" data-legend-baseline="536" data-legend-width="78">
+            <rect x="40" y="527" width="16" height="10" rx="2.5" class="c-backend" stroke-width="1"/>
+            <text x="62" y="536" class="t-muted" font-size="10" font-weight="500">Backend</text>
           </g>
-          <g data-legend-semantic-kind="database" data-legend-kind="database" data-legend-label="Database" data-legend-x="140" data-legend-baseline="596" data-legend-width="83">
-            <rect x="140" y="587" width="16" height="10" rx="2.5" class="c-database" stroke-width="1"/>
-            <text x="162" y="596" class="t-muted" font-size="10" font-weight="500">Database</text>
+          <g data-legend-semantic-kind="database" data-legend-kind="database" data-legend-label="Database" data-legend-x="140" data-legend-baseline="536" data-legend-width="83">
+            <rect x="140" y="527" width="16" height="10" rx="2.5" class="c-database" stroke-width="1"/>
+            <text x="162" y="536" class="t-muted" font-size="10" font-weight="500">Database</text>
           </g>
-          <g data-legend-semantic-kind="cloud" data-legend-kind="cloud" data-legend-label="Cloud" data-legend-x="245" data-legend-baseline="596" data-legend-width="68">
-            <rect x="245" y="587" width="16" height="10" rx="2.5" class="c-cloud" stroke-width="1"/>
-            <text x="267" y="596" class="t-muted" font-size="10" font-weight="500">Cloud</text>
+          <g data-legend-semantic-kind="cloud" data-legend-kind="cloud" data-legend-label="Cloud" data-legend-x="245" data-legend-baseline="536" data-legend-width="68">
+            <rect x="245" y="527" width="16" height="10" rx="2.5" class="c-cloud" stroke-width="1"/>
+            <text x="267" y="536" class="t-muted" font-size="10" font-weight="500">Cloud</text>
           </g>
-          <g data-legend-semantic-kind="security" data-legend-kind="security" data-legend-label="Security" data-legend-x="335" data-legend-baseline="596" data-legend-width="83">
-            <rect x="335" y="587" width="16" height="10" rx="2.5" class="c-security" stroke-width="1"/>
-            <text x="357" y="596" class="t-muted" font-size="10" font-weight="500">Security</text>
+          <g data-legend-semantic-kind="security" data-legend-kind="security" data-legend-label="Security" data-legend-x="335" data-legend-baseline="536" data-legend-width="83">
+            <rect x="335" y="527" width="16" height="10" rx="2.5" class="c-security" stroke-width="1"/>
+            <text x="357" y="536" class="t-muted" font-size="10" font-weight="500">Security</text>
           </g>
-          <g data-legend-semantic-kind="external" data-legend-kind="external" data-legend-label="External" data-legend-x="440" data-legend-baseline="596" data-legend-width="83">
-            <rect x="440" y="587" width="16" height="10" rx="2.5" class="c-external" stroke-width="1"/>
-            <text x="462" y="596" class="t-muted" font-size="10" font-weight="500">External</text>
+          <g data-legend-semantic-kind="external" data-legend-kind="external" data-legend-label="External" data-legend-x="440" data-legend-baseline="536" data-legend-width="83">
+            <rect x="440" y="527" width="16" height="10" rx="2.5" class="c-external" stroke-width="1"/>
+            <text x="462" y="536" class="t-muted" font-size="10" font-weight="500">External</text>
           </g>
         </g>
       </svg>
